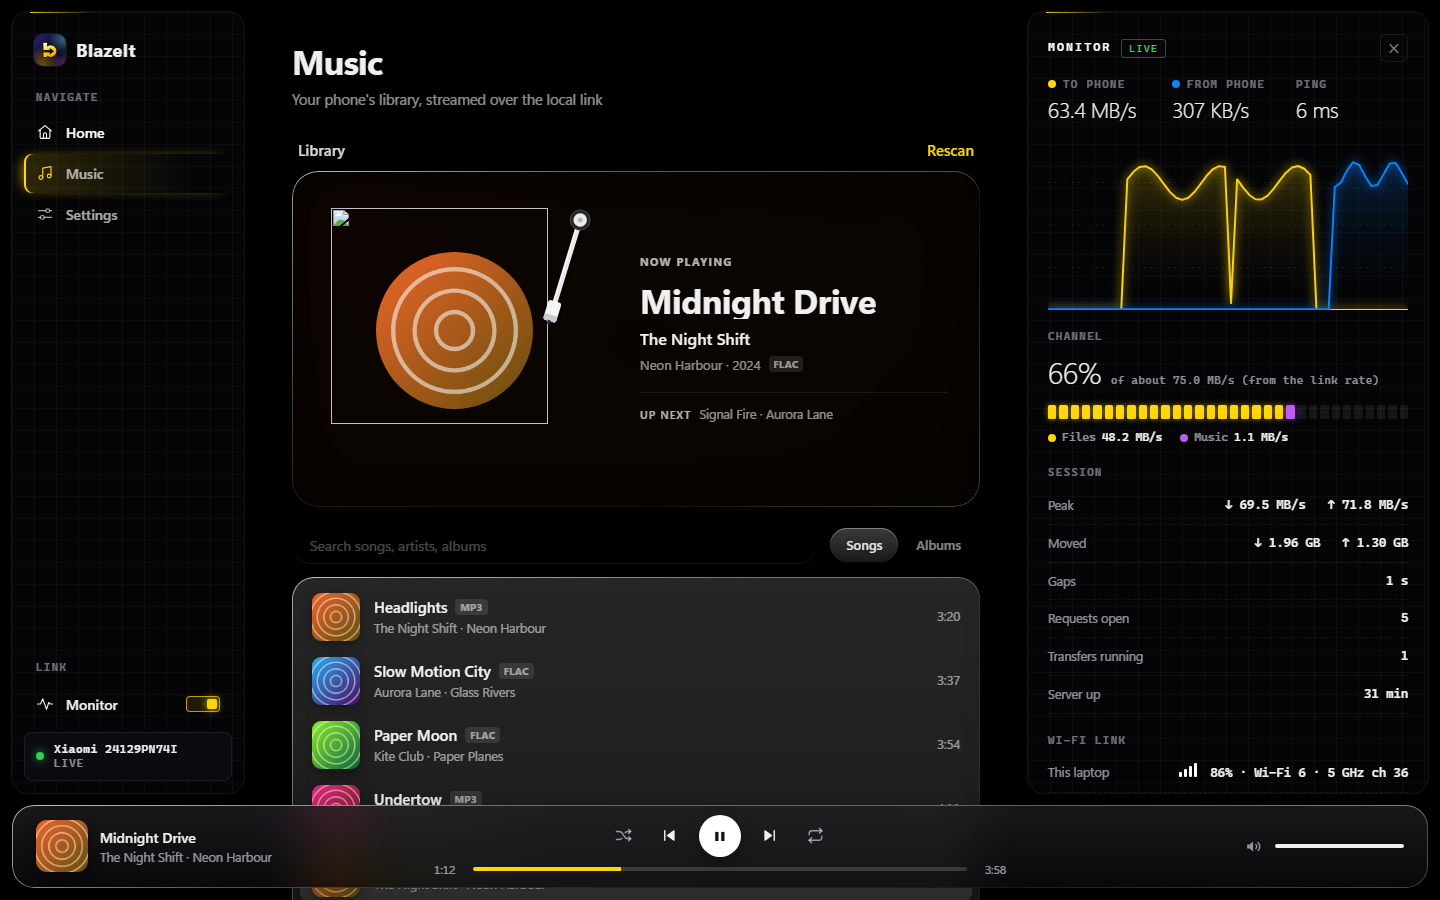
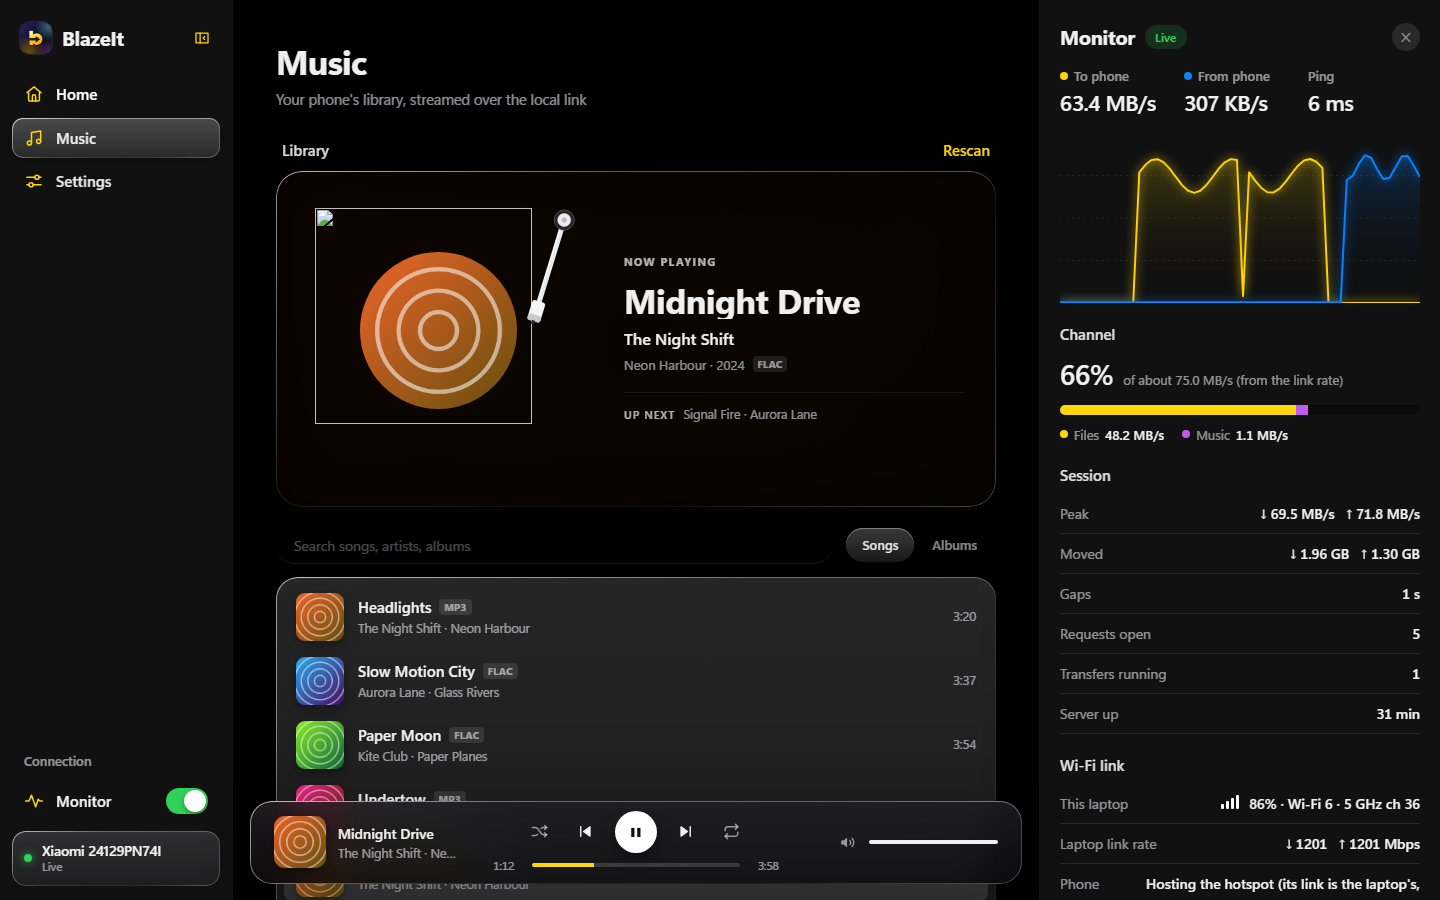
Page: iOS styling like the phone, Send to phone, a richer drop card
The sidebar becomes an iPadOS sidebar: material over the aurora, accent-tinted icons, the
current row under a rounded glass highlight, a real iOS switch for the monitor and the
phone as a small glass card. The monitor panel uses the phone's type and its continuous
channel bar. The clipboard has a labelled Send to phone button again. The drop card gets a
large tinted icon, a line saying where files land, and the choosers inside it; dragging
over it lifts and glows.

diff --git a/app/src/main/assets/bridge.html b/app/src/main/assets/bridge.html
@@ -485,97 +485,6 @@
   #login .pad { background: transparent; box-shadow: none; -webkit-backdrop-filter: none; backdrop-filter: none; padding-top: 14px; }
   #login .pad::before { display: none; }
 
-  /* ================================================================ side panels as instruments
-     The sidebar and the docked monitor are read like a cockpit panel: a dark slab over a
-     faint grid, hairline frame, monospace labels in small caps, thin glowing markers
-     instead of glossy lenses, and meters built from lit cells. */
-  :root { --hud-line: rgba(255,255,255,.08); --hud-label: rgba(235,240,255,.46); }
-  .side, body.mon-dock .mon-sheet {
-    border-radius: 16px;
-    background:
-      linear-gradient(rgba(255,255,255,.022) 1px, transparent 1px) 0 0 / 22px 22px,
-      linear-gradient(90deg, rgba(255,255,255,.022) 1px, transparent 1px) 0 0 / 22px 22px,
-      linear-gradient(180deg, rgba(12,14,24,.74), rgba(6,8,14,.8));
-    box-shadow: 0 0 0 1px var(--hud-line), 0 24px 60px rgba(0,0,0,.45);
-    -webkit-backdrop-filter: blur(28px) saturate(140%); backdrop-filter: blur(28px) saturate(140%);
-  }
-  body.oled .side, body.oled.mon-dock .mon-sheet {
-    background:
-      linear-gradient(rgba(255,255,255,.03) 1px, transparent 1px) 0 0 / 22px 22px,
-      linear-gradient(90deg, rgba(255,255,255,.03) 1px, transparent 1px) 0 0 / 22px 22px,
-      #050507;
-  }
-  /* the frame: a hairline, with a short accent stroke that marks the top edge */
-  .side::before, body.mon-dock .mon-sheet::before {
-    padding: 0; -webkit-mask: none; mask: none; inset: 0;
-    background:
-      linear-gradient(90deg, var(--accent), rgba(255,214,10,0)) 18px 0 / 64px 1px no-repeat;
-    opacity: .9;
-  }
-  .side .logo { padding-bottom: 26px; }
-  .side .logo .wordmark { letter-spacing: .02em; }
-
-  /* labels over the groups */
-  .tabs::before, .side-foot::before {
-    content: "NAVIGATE"; display: block; padding: 0 12px 8px;
-    font: 600 10.5px/1 var(--mono); letter-spacing: .16em; color: var(--hud-label);
-  }
-  .side-foot::before { content: "LINK"; padding-bottom: 4px; }
-
-  /* nav: a lit marker, not a lens */
-  .tabs button, .side-item { border-radius: 8px; padding: 9px 12px; font-size: 14px; color: rgba(255,255,255,.66); }
-  .tabs button:hover, .side-item:hover { background: rgba(255,255,255,.04); color: #fff; }
-  .tabs button.on {
-    color: #fff; background: linear-gradient(90deg, rgba(255,214,10,.16), rgba(255,214,10,0) 80%);
-    box-shadow: inset 2px 0 0 var(--accent), -6px 0 14px -6px rgba(255,214,10,.7);
-  }
-  .tabs button.on::before { display: none; }
-  .tabs svg, .side-item svg { stroke-width: 1.5; }
-
-  /* the monitor switch: an indicator, square-shouldered */
-  .switch { width: 34px; height: 16px; border-radius: 4px; background: transparent; box-shadow: inset 0 0 0 1px rgba(255,255,255,.25); }
-  .switch::after { left: 3px; top: 3px; width: 10px; height: 10px; border-radius: 2px; background: rgba(255,255,255,.45); box-shadow: none; }
-  .mon-toggle.on .switch { background: rgba(255,214,10,.1); box-shadow: inset 0 0 0 1px rgba(255,214,10,.7); }
-  .mon-toggle.on .switch::after { left: 21px; background: var(--accent); box-shadow: 0 0 8px rgba(255,214,10,.9); }
-
-  /* phone status: a readout */
-  .status { border-radius: 8px; background: rgba(255,255,255,.03); box-shadow: inset 0 0 0 1px var(--hud-line); }
-  .status::before { display: none; }
-  .status .dev { font-family: var(--mono); font-size: 12px; letter-spacing: .02em; }
-  .status .lbl { font-family: var(--mono); font-size: 10.5px; letter-spacing: .14em; text-transform: uppercase; }
-  .dot.on { animation: pulse 2.4s ease-in-out infinite; }
-  @keyframes pulse { 50% { box-shadow: 0 0 2px rgba(48,209,88,.4); opacity: .75; } }
-
-  /* monitor readouts */
-  body.mon-dock .mon-head > b { font: 600 11.5px/1 var(--mono); letter-spacing: .2em; text-transform: uppercase; color: #fff; }
-  .mon-live { font-family: var(--mono); font-size: 10px; letter-spacing: .14em; text-transform: uppercase; border-radius: 3px; background: transparent; box-shadow: inset 0 0 0 1px rgba(48,209,88,.45); }
-  .mon-head .x { border-radius: 6px; background: transparent; box-shadow: inset 0 0 0 1px var(--hud-line); }
-  .mon-sub, .mon-rates .k { font: 600 10.5px/1.2 var(--mono); letter-spacing: .16em; text-transform: uppercase; color: var(--hud-label); }
-  .mon-rates .k { gap: 7px; }
-  .mon-rates b { font-weight: 300; letter-spacing: -.02em; }
-  .mon-grid > div { border-bottom: 1px dashed rgba(255,255,255,.07); }
-  .mon-grid span { font-size: 12.5px; }
-  .mon-grid b { font-family: var(--mono); font-size: 12.5px; font-weight: 500; }
-  .ch-head b { font-weight: 300; font-size: 30px; }
-  .ch-head span { font-family: var(--mono); font-size: 11px; letter-spacing: .04em; }
-  .ch-bar { display: grid; grid-template-columns: repeat(32, minmax(0, 1fr)); gap: 3px; height: 14px; background: none; border-radius: 0; box-shadow: none; overflow: visible; }
-  .ch-bar i { width: auto !important; border-radius: 1.5px; background: rgba(255,255,255,.07); }
-  .ch-bar i.files { background: var(--accent); box-shadow: 0 0 6px rgba(255,214,10,.55); }
-  .ch-bar i.music { background: var(--music); box-shadow: 0 0 6px rgba(191,90,242,.6); }
-  .ch-bar i.test { background: var(--blue); box-shadow: 0 0 6px rgba(10,132,255,.6); }
-  .ch-legend { font-family: var(--mono); font-size: 11.5px; }
-  .ch-hint { margin: 10px 0 0; font-size: 12.5px; color: var(--accent); }
-
-  /* the USB card */
-  .usb-head { display: flex; align-items: center; gap: 14px; }
-  .usb-head svg { width: 38px; height: 38px; flex: 0 0 38px; padding: 8px; border-radius: 12px; fill: none; stroke: var(--accent); stroke-width: 1.6; stroke-linecap: round; stroke-linejoin: round; background: rgba(255,214,10,.1); box-shadow: inset 0 0 0 1px rgba(255,214,10,.3); }
-  .usb-head b { display: block; font-size: 15px; }
-  .usb-head span { color: var(--sub); font-size: 13px; }
-  .steps { margin: 14px 0 0; padding-left: 20px; color: var(--txt); font-size: 13.5px; }
-  .steps li { margin: 6px 0; }
-  .steps li::marker { color: var(--accent); font-weight: 700; }
-  @media (max-width: 900px) { .tabs::before, .side-foot::before { display: none; } .side { background: rgba(8,10,18,.85); } }
-
   /* ================================================================ straight, edge-docked panels
      The sidebar and the docked monitor run the full height of the window, flush to its
      edges, square-cornered, divided from the page by a single hairline. The player floats
@@ -652,6 +561,130 @@
   .clip-card { display: flex; flex-direction: column; }
   .clip-field { flex: 1 1 auto; display: flex; flex-direction: column; }
   .clip-field textarea { flex: 1 1 auto; }
+
+  /* ================================================================ iOS, like the phone
+     The sidebar is an iPadOS sidebar: a material that lets the aurora through, rows with
+     the icon tinted in the accent, the current row under a rounded glass highlight, a real
+     iOS switch, and the phone's status as a small card. The monitor panel uses the same
+     type and bars as the phone's monitor. No monospace, no grid. */
+  :root { --hud-line: rgba(255,255,255,.08); --hud-label: rgba(235,235,245,.6); }
+
+  .side, body.mon-dock .mon-sheet {
+    background: linear-gradient(180deg, rgba(36,36,46,.52), rgba(18,18,26,.6));
+    -webkit-backdrop-filter: blur(40px) saturate(190%); backdrop-filter: blur(40px) saturate(190%);
+  }
+  body.oled .side, body.oled.mon-dock .mon-sheet { background: rgba(18,18,20,.92); }
+  .side::before, body.mon-dock .mon-sheet::before { display: none; }
+  .side { padding: 22px 12px 14px; }
+
+  .side-top { padding: 0 2px 20px 8px; }
+  .side-top .logo { font-size: 20px; font-weight: 700; letter-spacing: -.3px; }
+  .side-collapse { width: 32px; height: 32px; border-radius: 50%; box-shadow: none; color: var(--accent); }
+  .side-collapse:hover { background: rgba(255,255,255,.08); box-shadow: none; color: var(--accent); }
+  .side-collapse svg { stroke-width: 1.7; }
+
+  .tabs { gap: 3px; }
+  .tabs::before { content: none; }
+  .side-foot::before { content: "Connection"; font: 600 13px/1 -apple-system, "Segoe UI Variable Text", "Segoe UI", sans-serif;
+    letter-spacing: 0; color: var(--hud-label); padding: 0 12px 4px; }
+  .tabs button, .side-item { border-radius: 11px; padding: 9px 12px; font-size: 15px; font-weight: 500; color: rgba(255,255,255,.9); gap: 12px; }
+  .tabs svg, .side-item svg { width: 20px; height: 20px; flex-basis: 20px; stroke: var(--accent); stroke-width: 1.8; }
+  .tabs button:hover, .side-item:hover { background: rgba(255,255,255,.07); color: #fff; }
+  .tabs button.on {
+    position: relative; color: #fff; font-weight: 600;
+    background: linear-gradient(180deg, rgba(255,255,255,.24), rgba(255,255,255,.10));
+    box-shadow: inset 0 1px 0 rgba(255,255,255,.4), 0 6px 16px rgba(0,0,0,.22);
+  }
+  .tabs button.on::before {
+    display: block; content: ""; position: absolute; inset: 0; border-radius: inherit; padding: 1px; pointer-events: none;
+    background: var(--rim); -webkit-mask: linear-gradient(#000 0 0) content-box, linear-gradient(#000 0 0);
+    -webkit-mask-composite: xor; mask-composite: exclude;
+  }
+
+  /* the iOS switch, as on the phone */
+  .switch { width: 42px; height: 26px; border-radius: 13px; background: rgba(120,120,128,.32); box-shadow: none; }
+  .switch::after { left: 2px; top: 2px; width: 22px; height: 22px; border-radius: 50%; background: #fff; box-shadow: 0 2px 5px rgba(0,0,0,.35); }
+  .mon-toggle.on .switch { background: var(--good); box-shadow: none; }
+  .mon-toggle.on .switch::after { left: 18px; background: #fff; box-shadow: 0 2px 5px rgba(0,0,0,.35); }
+
+  /* the phone, as a small glass card */
+  .status { border-radius: 14px; padding: 11px 12px; background: linear-gradient(180deg, rgba(255,255,255,.12), rgba(255,255,255,.05)); box-shadow: inset 0 1px 0 rgba(255,255,255,.2); }
+  .status .dev { font-family: inherit; font-size: 13.5px; font-weight: 600; letter-spacing: 0; }
+  .status .lbl { font-family: inherit; font-size: 12px; letter-spacing: 0; text-transform: none; }
+  .dot.on { animation: none; }
+
+  body.side-collapsed .tabs::before, body.side-collapsed .side-foot::before { display: none; }
+  body.side-collapsed .tabs button, body.side-collapsed .side-item { padding: 11px 0; }
+  body.side-collapsed .mon-toggle.on svg { filter: none; }
+  body.side-collapsed .mon-toggle.on { background: rgba(48,209,88,.16); }
+
+  /* the monitor panel reads like the phone's monitor */
+  body.mon-dock .mon-head > b { font-family: inherit; font-size: 20px; font-weight: 700; letter-spacing: -.3px; text-transform: none; }
+  .mon-head > b { font-size: 20px; }
+  .mon-live { font-family: inherit; font-size: 12px; letter-spacing: 0; text-transform: none; border-radius: 99px; padding: 3px 10px;
+    background: rgba(48,209,88,.16); box-shadow: none; }
+  .mon-head .x { border-radius: 50%; background: rgba(255,255,255,.1); box-shadow: none; }
+  .mon-sub { font-family: inherit; font-size: 15px; font-weight: 600; line-height: 1.2; letter-spacing: 0; text-transform: none; color: rgba(255,255,255,.86); margin: 22px 0 10px; }
+  .mon-rates .k { font-family: inherit; font-size: 13px; font-weight: 500; line-height: 1.2; letter-spacing: 0; text-transform: none; color: var(--sub); }
+  .mon-rates b { font-weight: 600; letter-spacing: -.5px; }
+  .mon-grid > div { border-bottom: .5px solid rgba(255,255,255,.1); }
+  .mon-grid span { font-size: 14px; }
+  .mon-grid b { font-family: inherit; font-size: 14px; font-weight: 600; }
+  .ch-head b { font-weight: 600; font-size: 28px; }
+  .ch-head span { font-family: inherit; font-size: 13px; letter-spacing: 0; }
+  /* one continuous capsule, filled left to right by use */
+  .ch-bar { display: grid; grid-template-columns: repeat(32, minmax(0, 1fr)); gap: 0; height: 10px; border-radius: 5px; overflow: hidden;
+    background: rgba(0,0,0,.3); box-shadow: inset 0 1px 2px rgba(0,0,0,.4); }
+  .ch-bar i { border-radius: 0; background: transparent; box-shadow: none !important; }
+  .ch-bar i.files { background: var(--accent); }
+  .ch-bar i.music { background: var(--music); }
+  .ch-bar i.test { background: var(--blue); }
+  .ch-legend { font-family: inherit; font-size: 13px; }
+  .ch-hint { margin: 10px 0 0; font-size: 13px; color: var(--accent); }
+
+  /* clipboard: Send to phone as a real button in the corner */
+  .clip-field textarea { padding: 0 0 58px 0; }
+  .clip-status { bottom: 26px; }
+  .send-pill {
+    position: absolute; right: 16px; bottom: 16px; height: 40px; display: inline-flex; align-items: center; gap: 8px; padding: 0 18px 0 14px;
+    border: 0; border-radius: 999px; cursor: pointer; color: #111; font: inherit; font-size: 14px; font-weight: 600;
+    background: linear-gradient(180deg, #FFE45C, #FFC400);
+    box-shadow: inset 0 1px 0 rgba(255,255,255,.7), 0 8px 20px rgba(255,196,0,.28);
+    transition: transform .1s, filter .12s;
+  }
+  .send-pill:hover { filter: brightness(1.06); }
+  .send-pill:active { transform: scale(.97); }
+  .send-pill svg { width: 18px; height: 18px; fill: none; stroke: currentColor; stroke-width: 2.2; stroke-linecap: round; stroke-linejoin: round; }
+
+  /* the drop card: a big tinted icon, a title, a line, and the choosers inside */
+  .drop {
+    display: flex; flex-direction: column; align-items: center; justify-content: center; gap: 6px; min-height: 250px; padding: 30px 20px;
+    border: 1.5px dashed rgba(255,255,255,.22); border-radius: 20px;
+    background: radial-gradient(120% 90% at 50% 0%, rgba(255,214,10,.10), rgba(0,0,0,.12) 60%);
+    transition: border-color .15s, background .15s, transform .15s;
+  }
+  .drop:hover { border-color: rgba(255,214,10,.55); }
+  .drop.over { border-color: var(--accent); background: radial-gradient(120% 90% at 50% 0%, rgba(255,214,10,.22), rgba(255,214,10,.05) 70%); transform: scale(1.01); }
+  .drop-icon { width: 64px; height: 64px; display: grid; place-items: center; margin-bottom: 8px; border-radius: 50%;
+    background: linear-gradient(180deg, rgba(255,214,10,.28), rgba(255,214,10,.10));
+    box-shadow: inset 0 1px 0 rgba(255,255,255,.35), 0 10px 30px rgba(255,196,0,.18); }
+  .drop-icon svg { width: 30px; height: 30px; fill: none; stroke: var(--accent); stroke-width: 1.8; stroke-linecap: round; stroke-linejoin: round; }
+  .drop.over .drop-icon svg { animation: nudge .7s ease-in-out infinite alternate; }
+  @keyframes nudge { to { transform: translateY(-3px); } }
+  .drop .big { font-size: 18px; font-weight: 700; letter-spacing: -.2px; }
+  .drop .meta { font-size: 13px; }
+  .drop-actions { display: flex; gap: 10px; margin-top: 14px; }
+
+  /* the USB card in Settings */
+  .usb-head { display: flex; align-items: center; gap: 14px; }
+  .usb-head svg { width: 42px; height: 42px; flex: 0 0 42px; padding: 9px; border-radius: 50%; fill: none; stroke: var(--accent); stroke-width: 1.6; stroke-linecap: round; stroke-linejoin: round; background: linear-gradient(180deg, rgba(255,214,10,.28), rgba(255,214,10,.10)); box-shadow: inset 0 1px 0 rgba(255,255,255,.3); }
+  .usb-head b { display: block; font-size: 15px; }
+  .usb-head span { color: var(--sub); font-size: 13px; }
+  .steps { margin: 14px 0 0; padding-left: 20px; color: var(--txt); font-size: 13.5px; }
+  .steps li { margin: 6px 0; }
+  .steps li::marker { color: var(--accent); font-weight: 700; }
+
+  @media (max-width: 900px) { .tabs::before, .side-foot::before { display: none; } }
 </style>
 </head>
 <body>
@@ -710,7 +743,7 @@
       <div class="clip-field">
         <textarea id="clip" placeholder="Type or paste text here, then send it to the phone."></textarea>
         <span class="meta clip-status" id="clip-status"></span>
-        <button id="clip-send" class="send-round" title="Send to the phone (Ctrl+Enter)"><svg viewBox="0 0 24 24" aria-hidden="true"><path d="M12 19V5.5"/><path d="M6.5 11 12 5.5 17.5 11"/></svg></button>
+        <button id="clip-send" class="send-pill" title="Send to the phone (Ctrl+Enter)"><svg viewBox="0 0 24 24" aria-hidden="true"><path d="M12 19V5.5"/><path d="M6.5 11 12 5.5 17.5 11"/></svg><span>Send to phone</span></button>
       </div>
       <div class="clip-tools">
         <button class="tool" id="clip-paste" title="Paste what this computer last copied"><svg viewBox="0 0 24 24" aria-hidden="true"><path d="M9 5.5H7.5A1.5 1.5 0 0 0 6 7v12a1.5 1.5 0 0 0 1.5 1.5h9A1.5 1.5 0 0 0 18 19V7a1.5 1.5 0 0 0-1.5-1.5H15"/><path d="M10 3.5h4a1 1 0 0 1 1 1v1.5a1 1 0 0 1-1 1h-4a1 1 0 0 1-1-1V4.5a1 1 0 0 1 1-1Z"/></svg><span>Paste</span></button>
@@ -726,17 +759,17 @@
     <div class="bar">Send to the phone</div>
     <div class="pad">
       <div id="drop" class="drop">
+        <div class="drop-icon"><svg viewBox="0 0 24 24" aria-hidden="true"><path d="M12 15V4"/><path d="M7.5 8.5 12 4l4.5 4.5"/><path d="M4 14v4a2 2 0 0 0 2 2h12a2 2 0 0 0 2-2v-4"/></svg></div>
         <div class="big">Drop files or folders here</div>
-        <div class="meta" style="margin-top:6px">or click to choose files</div>
-      </div>
-      <div class="actions" style="margin-top:10px">
-        <button class="btn sm ghost" id="pick-files">Choose files</button>
-        <button class="btn sm ghost" id="pick-folder">Choose a folder</button>
+        <div class="meta">They land in the phone's folder, subfolders and all.</div>
+        <div class="drop-actions">
+          <button class="btn sm" id="pick-files">Choose files</button>
+          <button class="btn sm ghost" id="pick-folder">Choose a folder</button>
+        </div>
       </div>
       <input id="file-input" type="file" multiple hidden>
       <input id="folder-input" type="file" webkitdirectory multiple hidden>
-      <p class="note">A folder arrives on the phone as the same folder, subfolders included.</p>
-      <p class="note">Moving something big? A USB-C cable is the fastest link: <a href="#" id="usb-link">how to set it up</a>.</p>
+            <p class="note">Moving something big? A USB-C cable is the fastest link: <a href="#" id="usb-link">how to set it up</a>.</p>
       <p class="note" id="limit"></p>
     </div>
     </div>
@@ -2959,8 +2992,8 @@ async function pair() {
 function setupDrop() {
   var drop = $("drop"), input = $("file-input"), folderInput = $("folder-input");
   drop.addEventListener("click", function () { input.click(); });
-  $("pick-files").addEventListener("click", function () { input.click(); });
-  $("pick-folder").addEventListener("click", function () { folderInput.click(); });
+  $("pick-files").addEventListener("click", function (e) { e.stopPropagation(); input.click(); });
+  $("pick-folder").addEventListener("click", function (e) { e.stopPropagation(); folderInput.click(); });
   input.addEventListener("change", function () {
     if (input.files && input.files.length) addFiles(input.files);
     input.value = "";
